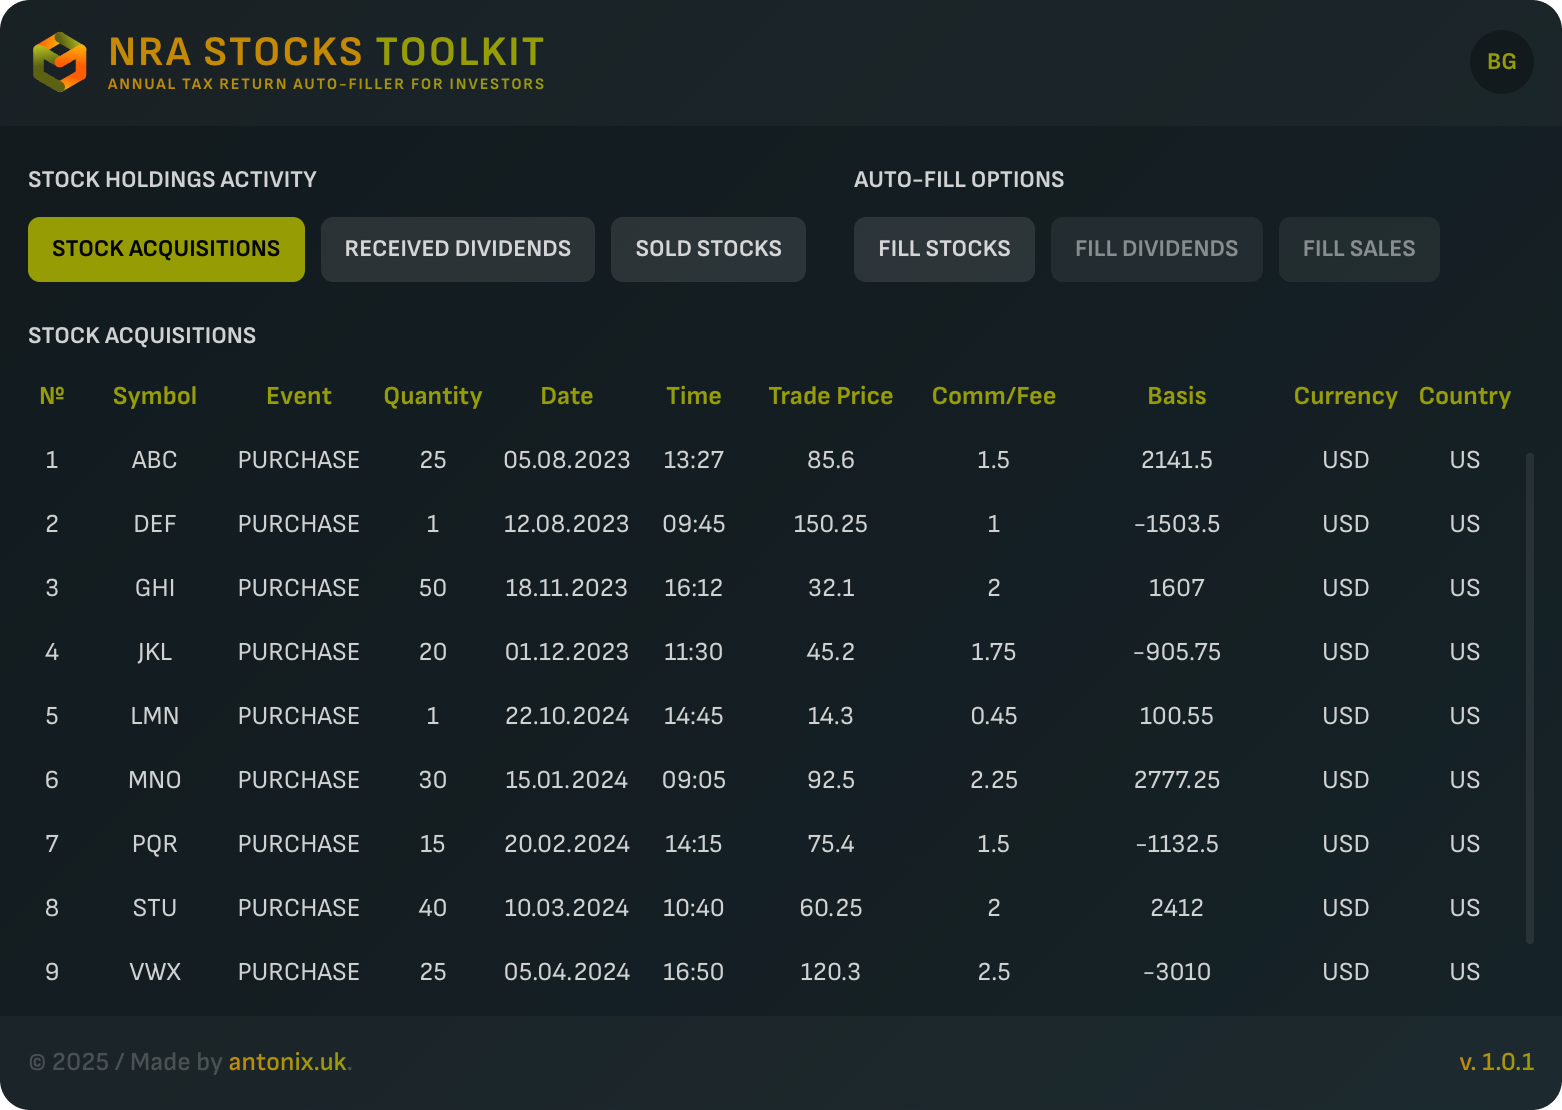
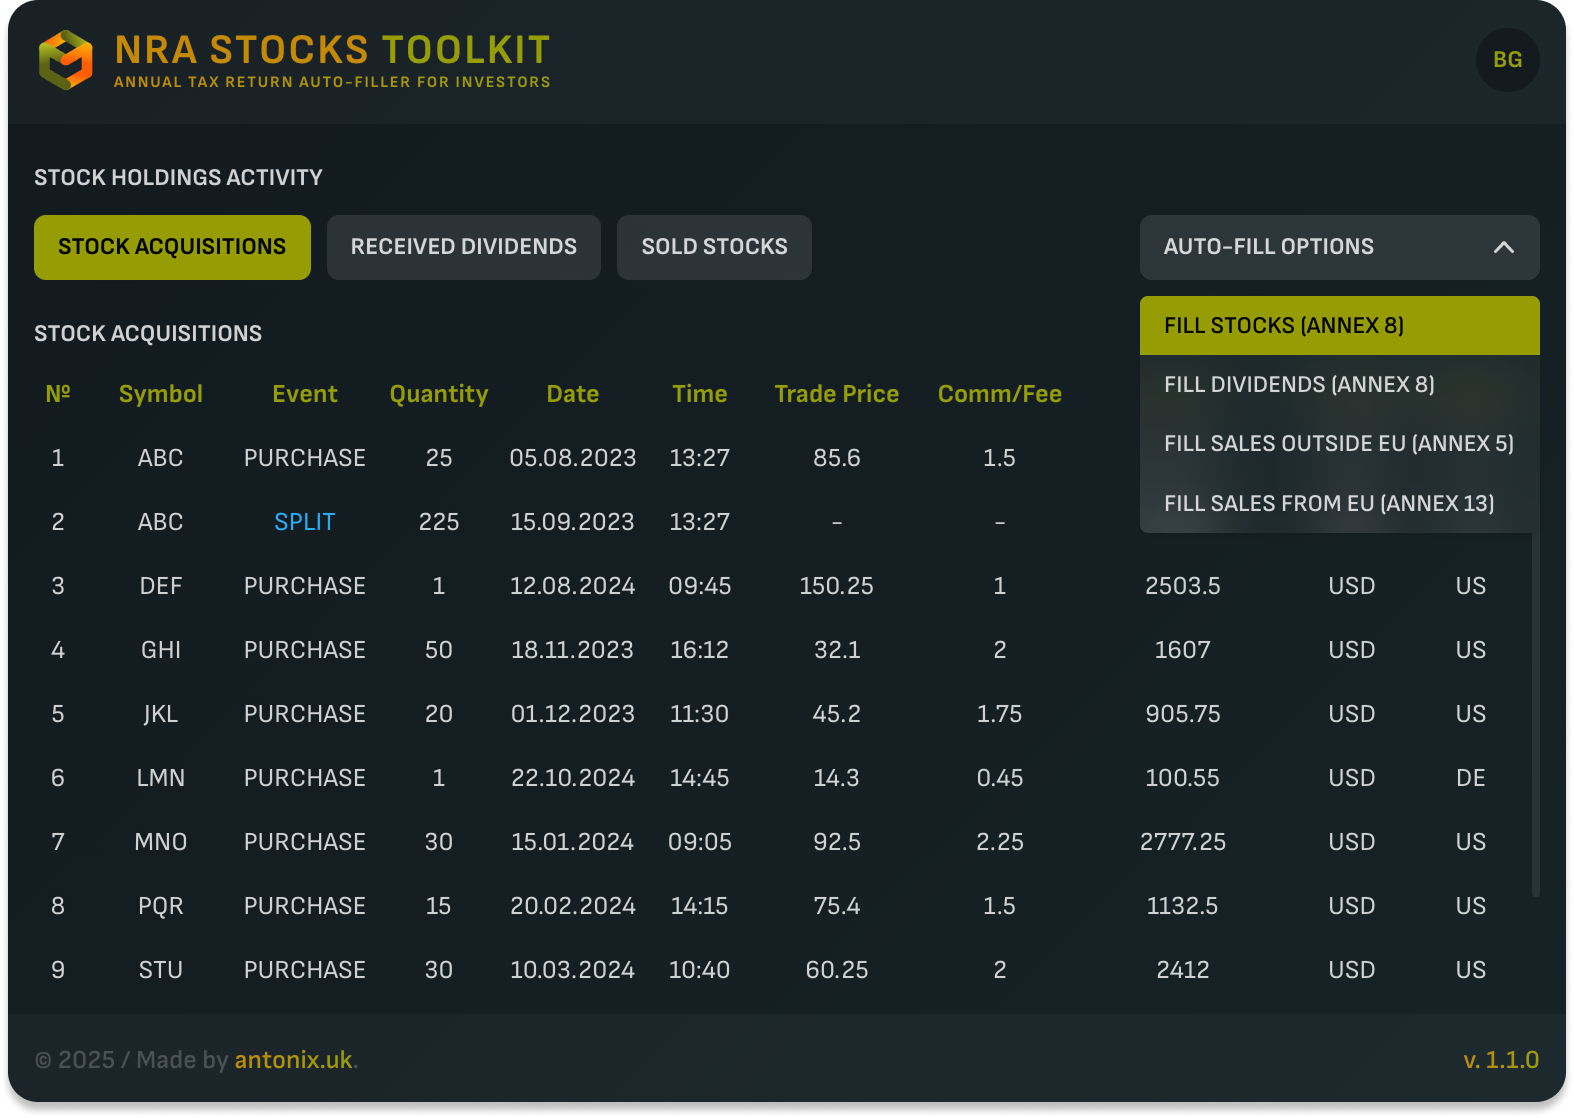
Update readme files

diff --git a/README-BG.md b/README-BG.md
@@ -8,9 +8,9 @@
 
 За кратка демонстрация виж видеото: [тук](https://youtu.be/JjMxRMxLQno).
 
-![NRA Stocks Toolkit - Landing screen](screenshot-a.png)
+![NRA Stocks Toolkit - Landing screen](screenshot-a-bg.png)
 
-![NRA Stocks Toolkit - Stock Acquisition events screen](screenshot-b.png)
+![NRA Stocks Toolkit - Stock Acquisition events screen](screenshot-b-bg.png)
 
 > **Забележка: Скрийншотите показват нереални, автоматично генерирани данни, използвани единствено за демонстрация на интерфейса.**
 
@@ -65,28 +65,30 @@ Download the unpacked extension as a ZIP file from [here](https://github.com/ant
 ### Добавяне на файлове към NRA Stocks Toolkit
   1. Отворете портала на НАП (https://portal.nra.bg) и отидете на:
   - Приложение 8 за "Придобити акции" и "Получени дивиденти"
-  - Приложение 5 за "Продадени акции"
+  - Приложение 5 за "Продадени акции" от борси извън ЕС
+  - Приложение 13 за "Продадени акции" от борси в ЕС
   2. Отворете "NRA Stocks Toolkit" екстеншъна от списъка с разширения в браузъра.
   3. Натиснете "Добави IBKR Activity Statement" и изберете всички изтеглени CSV файлове.
 
 ### Преглед и попълване на придобитите акции
-  1. Ще се появи таблицата "Придобити акции", обобщаваща събитията на придобиване на акции. **Продажбите се приспадат по метода FIFO (First In, First Out) и не се показват в таблицата. Затова за максимална точност е необходима пълна история на придобити/продадени акции до данъчната година.**
-  2. Натиснете бутона "Акции" от секцията "Опции за автоматично попълване" за да попълните Приложение 8, Част I в портала на НАП. Валутните курсове се взимат от сайта на НАП.
+  1. Ще се покаже таблицата "Придобити акции", обобщаваща събитията на придобиване на акции. **Продажбите се приспадат по метода FIFO (First In, First Out) и не се показват в таблицата. Затова за максимална точност е необходима пълна история на придобити/продадени акции до данъчната година.**
+  2. Натиснете бутона "Попълни Акции (Приложение 8)" от менюто "Опции за автоматично попълване" за да попълните Приложение 8, Част I в портала на НАП. Валутните курсове се взимат от сайта на НАП.
   3. След като приключи автоматичното попълване, проверете данните преди да подадете формуляра.
 
 ### Преглед и попълване на дивиденти
   1. Изберете таблицата "Получени дивиденти" за да прегледате детайлите. Можете да филтрирате по година, за да съответства на данъчния период.
-  2. Натиснете бутона "Дивиденти" за да попълните Приложение 8, Част III. Валутните курсове се взимат от официалната услуга на НАП въз основа на датата на изплащане на дивидента. Валутните курсове се взимат от сайта на НАП.
+  2. Натиснете бутона "Попълни Дивиденти (Приложение 8)" от менюто "Опции за автоматично попълване" за да попълните Приложение 8, Част III. Валутните курсове се взимат от официалната услуга на НАП въз основа на датата на изплащане на дивидента. Валутните курсове се взимат от сайта на НАП.
   3. След като приключи автоматичното попълване, проверете данните преди да подадете формуляра.
 
 ### Прегледайте и попълване на продажби от борси извън ЕС
-  1. Изберете таблицата "Продадени акции". Можете да филтрирате по година, за да съответства на данъчния период.
-  2. Уерете се, че е избран филтърът "ДЪРЖАВИ ИЗВЪН ЕС" (тъй като Приложение 5, Част I, Таблица II се отнася само за продажби на борси извън ЕС), след което прегледайте детайлите.
-  2. Натиснете бутона "Дивиденти" за да попълните автоматично Приложение 5, Част I, Таблица II. Валутните курсове се взимат от официалната услуга на НАП въз основа на датата на продажба. Валутните курсове се взимат от сайта на НАП.
+  1. Изберете таблицата "Продадени акции". Можете да филтрирате по година, за да съответства на данъчния период, след което можете да прегледате данните.
+  2. Натиснете бутона "Попълни Продажби извън EС (Прил. 5)" от менюто "Опции за автоматично попълване" за да попълните автоматично Приложение 5, Част I, Таблица II. Валутните курсове се взимат от официалната услуга на НАП въз основа на датата на продажба. Валутните курсове се взимат от сайта на НАП.
   3. След приключване на автоматичното попълване, проверете данните преди да подадете формуляра.
 
 ### Прегледайте и попълване на продажби от борси в ЕС
-  Ще го добавя скоро, само да наваксам малко сън 🫩
+  1. Ако видите редове, оцветени в синьо в таблицата "Продадени акции", това означава, че трябва да ги попълните в Приложение 13. За целта преминете към тази секция на сайта на НАП.
+  2. Натиснете бутона "Попълни Продажби в ЕС (Прил. 13)" от менюто "Опции за автоматично попълване" за да попълните автоматично Приложение 13, Част II, Код 508. Валутните курсове се взимат от официалната услуга на НАП въз основа на датата на продажба. Валутните курсове се взимат от сайта на НАП.
+  3. След приключване на автоматичното попълване, проверете данните преди да подадете формуляра.
 
 ## Официално разпространение и политика за поверителност
   - Този екстеншън не събира, съхранява или споделя лични данни – всичко се обработва локално на вашето устройство.

diff --git a/README.md b/README.md
@@ -61,31 +61,32 @@ For a quick demonstration, check out the video [here](https://youtu.be/JjMxRMxLQ
   5. Repeat for each account and year you're reporting taxes for.
 
 ### Add files to NRA Stocks Toolkit
-
   1. Open the NRA portal (https://portal.nra.bg) and navigate to:
   - Annex 8 for "Stock Acquisitions" and "Received Dividends"
-  - Annex 5 for "Sold Stocks"
+  - Annex 5 for "Sold Stocks" outside EU
+  - Annex 13 for "Sold Stocks" withn EU
   2. Open the "NRA Stocks Toolkit" extension from your browser's extensions list.
   3. Click "Add IBKR Activity Statement" and select all the downloaded CSV files.
 
-### Review and apply stock acquisitions
+### Review and fill in stock acquisitions
   1. "Stock Acquisitions" table will appear, summarizing the acquisitions. **Sales are deducted using the FIFO (First In, First Out) method (and are not displayed). Therefore, a complete trade order history up to the taxation year is required for maximum accuracy of calculations.**
-  2. Click "Fill Stocks" button to auto-fill the NRA Annex 8, Part I form. Exchange rates are retrieved from the NRA portal's official service.
+  2. Click "Fill Stocks (Annex 8)" button from "Auto-fill options" menu to auto-fill the NRA Annex 8, Part I form. Exchange rates are retrieved from the NRA portal's official service.
   3. Once completed, verify the data before submitting the form.
 
-### Review and apply dividends
+### Review and fill in dividends
   1. Switch to the "Received Dividends" table to review the details. You can filter by year to match your tax reporting period.
-  2. Click "Fill Dividends" button to auto-fill the NRA Annex 8, Part III form. Exchange rates are retrieved from the NRA portal's official service based on the dividend pay date.
+  2. Click "Fill Dividends (Annex 8)" button from "Auto-fill options" menu to auto-fill the NRA Annex 8, Part III form. Exchange rates are retrieved from the NRA portal's official service based on the dividend pay date.
   3. Once completed, verify the data before submitting the form.
 
-### Review and apply sales from Non-EU stock exchanges
-  1. Switch to the "Sold Stocks" table. You can filter by year to match the tax period.
-  2. Make sure the "NON-EU COUNTRIES" filter is selected (since Annex 5, Part I, Table II applies to sales on Non-EU stock exchanges only), then review the details.
-  3. Click "Fill Sales" button to auto-fill the NRA Annex 5, Part I, Table II form. Exchange rates are retrieved from the NRA portal's official service based on the sale date.
+### Review and fill in sales from Non-EU stock exchanges
+  1. Switch to the "Sold Stocks" table. You can filter by year to match the tax period, then review the details.
+  2. Click "Fill Sales Outside EU (Annex 5)" button from "Auto-fill options" menu to auto-fill the NRA Annex 5, Part I, Table II form. Exchange rates are retrieved from the NRA portal's official service based on the sale date.
   4. Once completed, verify the data before submitting the form.
 
 ### Review and fill in sales from EU stock exchanges
-  I'll add it soon - just need to catch up on some sleep first. 🫩
+  1. If you see lines highlighted in blue in the "Sold Stocks" table, it means you need to enter them into Annex 13 and navigate to that section on the NRA portal website.
+  2. Click "Fill Sales From EU (Annex 13)" button from "Auto-fill options" menu to auto-fill the NRA Annex 13, Part II, Code 508. Exchange rates are retrieved from the NRA portal's official service based on the sale date.
+  4. Once completed, verify the data before submitting the form.
 
 ## Official distribution and privacy notice
   - Your data stays private. This extension does not collect, store, or share personal data - everything is processed locally on your device.
